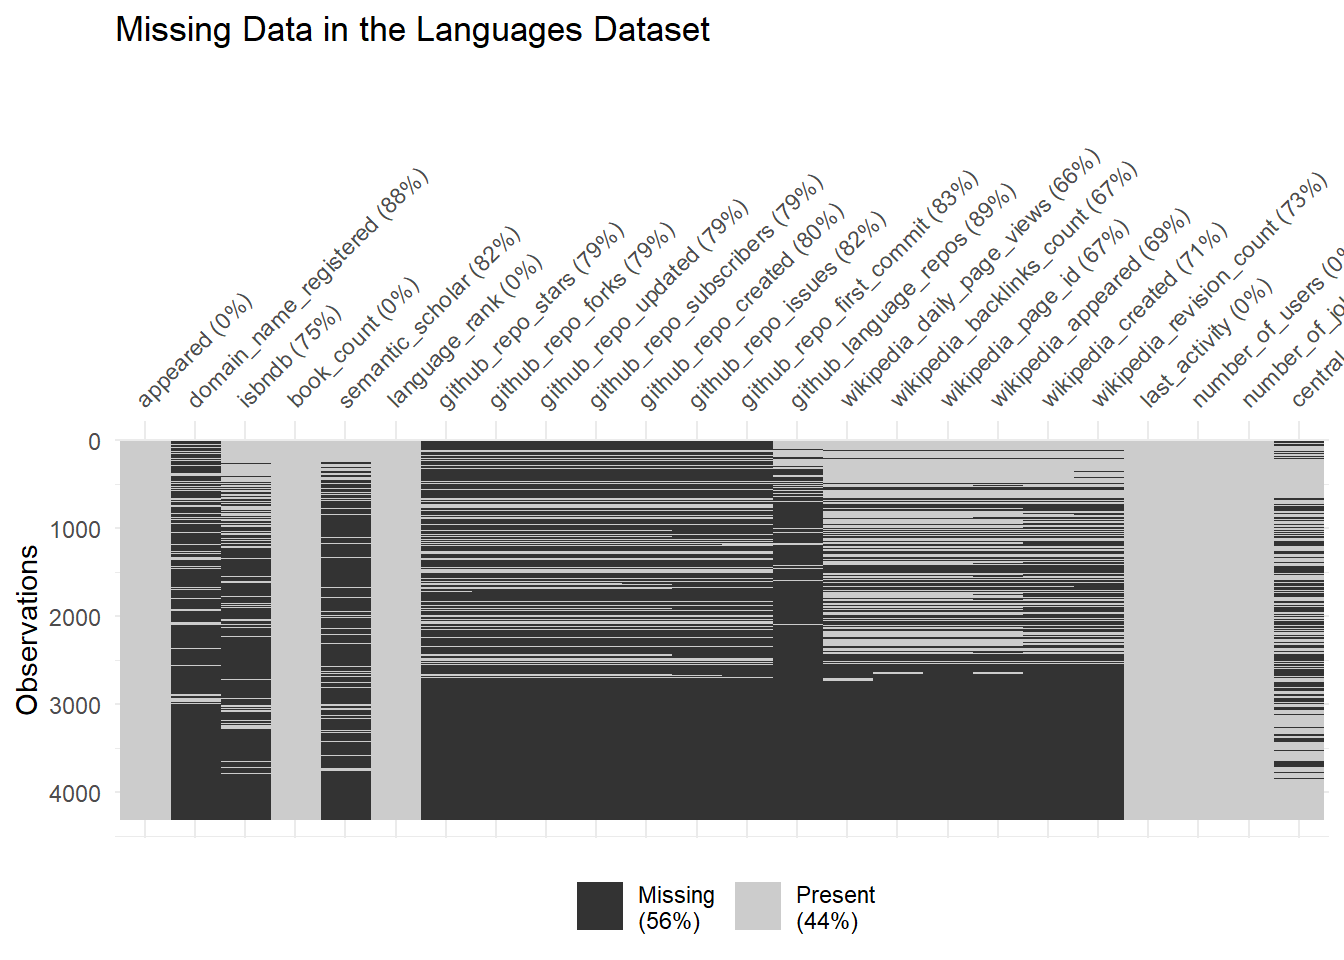
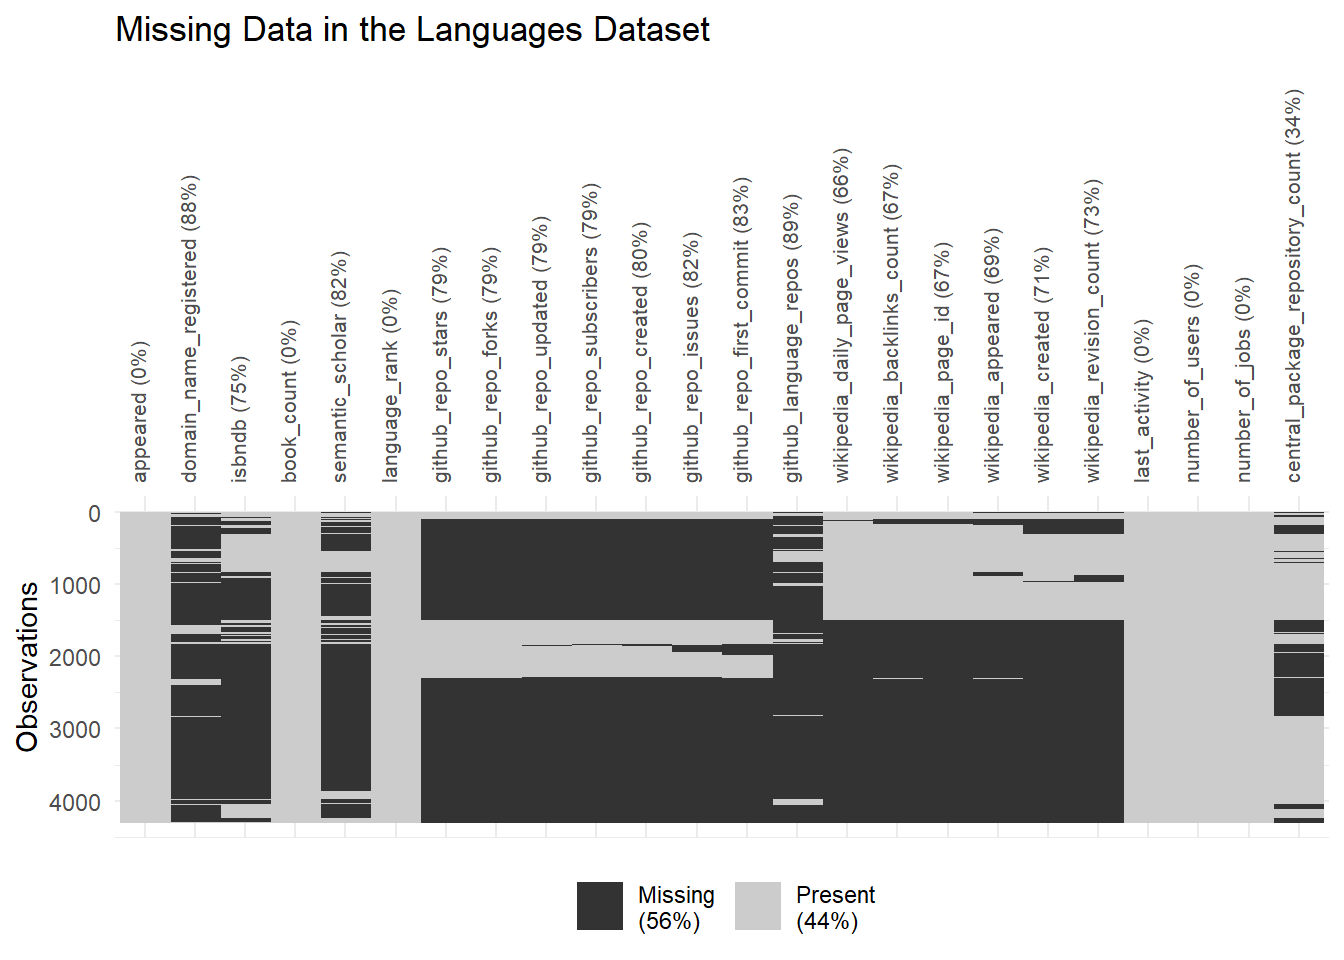
missingness figures

diff --git a/docs/posts/2023-03-22-tidytuesday-figure-polishing/index.html b/docs/posts/2023-03-22-tidytuesday-figure-polishing/index.html
@@ -903,12 +903,12 @@ cookieconsent.run({
 <span id="cb4-8"><a href="#cb4-8" aria-hidden="true" tabindex="-1"></a><span class="fu">tab_header</span>(<span class="at">title =</span> <span class="st">"Summary of Numerical Variables in Languages"</span>) </span></code><button title="Copy to Clipboard" class="code-copy-button"><i class="bi"></i></button></pre></div>
 <div class="cell-output-display column-page">
 
-<div id="goskwwycks" style="padding-left:0px;padding-right:0px;padding-top:10px;padding-bottom:10px;overflow-x:auto;overflow-y:auto;width:auto;height:auto;">
+<div id="tstsrltqzt" style="padding-left:0px;padding-right:0px;padding-top:10px;padding-bottom:10px;overflow-x:auto;overflow-y:auto;width:auto;height:auto;">
 <style>html {
   font-family: -apple-system, BlinkMacSystemFont, 'Segoe UI', Roboto, Oxygen, Ubuntu, Cantarell, 'Helvetica Neue', 'Fira Sans', 'Droid Sans', Arial, sans-serif;
 }
 
-:where(#goskwwycks) .gt_table {
+:where(#tstsrltqzt) .gt_table {
   display: table;
   border-collapse: collapse;
   margin-left: auto;
@@ -933,7 +933,7 @@ cookieconsent.run({
   border-left-color: #D3D3D3;
 }
 
-:where(#goskwwycks) .gt_heading {
+:where(#tstsrltqzt) .gt_heading {
   background-color: #FFFFFF;
   text-align: center;
   border-bottom-color: #FFFFFF;
@@ -945,12 +945,12 @@ cookieconsent.run({
   border-right-color: #D3D3D3;
 }
 
-:where(#goskwwycks) .gt_caption {
+:where(#tstsrltqzt) .gt_caption {
   padding-top: 4px;
   padding-bottom: 4px;
 }
 
-:where(#goskwwycks) .gt_title {
+:where(#tstsrltqzt) .gt_title {
   color: #333333;
   font-size: 125%;
   font-weight: initial;
@@ -962,7 +962,7 @@ cookieconsent.run({
   border-bottom-width: 0;
 }
 
-:where(#goskwwycks) .gt_subtitle {
+:where(#tstsrltqzt) .gt_subtitle {
   color: #333333;
   font-size: 85%;
   font-weight: initial;
@@ -974,13 +974,13 @@ cookieconsent.run({
   border-top-width: 0;
 }
 
-:where(#goskwwycks) .gt_bottom_border {
+:where(#tstsrltqzt) .gt_bottom_border {
   border-bottom-style: solid;
   border-bottom-width: 2px;
   border-bottom-color: #D3D3D3;
 }
 
-:where(#goskwwycks) .gt_col_headings {
+:where(#tstsrltqzt) .gt_col_headings {
   border-top-style: solid;
   border-top-width: 2px;
   border-top-color: #D3D3D3;
@@ -995,7 +995,7 @@ cookieconsent.run({
   border-right-color: #D3D3D3;
 }
 
-:where(#goskwwycks) .gt_col_heading {
+:where(#tstsrltqzt) .gt_col_heading {
   color: #333333;
   background-color: #FFFFFF;
   font-size: 100%;
@@ -1015,7 +1015,7 @@ cookieconsent.run({
   overflow-x: hidden;
 }
 
-:where(#goskwwycks) .gt_column_spanner_outer {
+:where(#tstsrltqzt) .gt_column_spanner_outer {
   color: #333333;
   background-color: #FFFFFF;
   font-size: 100%;
@@ -1027,15 +1027,15 @@ cookieconsent.run({
   padding-right: 4px;
 }
 
-:where(#goskwwycks) .gt_column_spanner_outer:first-child {
+:where(#tstsrltqzt) .gt_column_spanner_outer:first-child {
   padding-left: 0;
 }
 
-:where(#goskwwycks) .gt_column_spanner_outer:last-child {
+:where(#tstsrltqzt) .gt_column_spanner_outer:last-child {
   padding-right: 0;
 }
 
-:where(#goskwwycks) .gt_column_spanner {
+:where(#tstsrltqzt) .gt_column_spanner {
   border-bottom-style: solid;
   border-bottom-width: 2px;
   border-bottom-color: #D3D3D3;
@@ -1047,7 +1047,7 @@ cookieconsent.run({
   width: 100%;
 }
 
-:where(#goskwwycks) .gt_group_heading {
+:where(#tstsrltqzt) .gt_group_heading {
   padding-top: 8px;
   padding-bottom: 8px;
   padding-left: 5px;
@@ -1073,7 +1073,7 @@ cookieconsent.run({
   text-align: left;
 }
 
-:where(#goskwwycks) .gt_empty_group_heading {
+:where(#tstsrltqzt) .gt_empty_group_heading {
   padding: 0.5px;
   color: #333333;
   background-color: #FFFFFF;
@@ -1088,15 +1088,15 @@ cookieconsent.run({
   vertical-align: middle;
 }
 
-:where(#goskwwycks) .gt_from_md > :first-child {
+:where(#tstsrltqzt) .gt_from_md > :first-child {
   margin-top: 0;
 }
 
-:where(#goskwwycks) .gt_from_md > :last-child {
+:where(#tstsrltqzt) .gt_from_md > :last-child {
   margin-bottom: 0;
 }
 
-:where(#goskwwycks) .gt_row {
+:where(#tstsrltqzt) .gt_row {
   padding-top: 8px;
   padding-bottom: 8px;
   padding-left: 5px;
@@ -1115,7 +1115,7 @@ cookieconsent.run({
   overflow-x: hidden;
 }
 
-:where(#goskwwycks) .gt_stub {
+:where(#tstsrltqzt) .gt_stub {
   color: #333333;
   background-color: #FFFFFF;
   font-size: 100%;
@@ -1128,7 +1128,7 @@ cookieconsent.run({
   padding-right: 5px;
 }
 
-:where(#goskwwycks) .gt_stub_row_group {
+:where(#tstsrltqzt) .gt_stub_row_group {
   color: #333333;
   background-color: #FFFFFF;
   font-size: 100%;
@@ -1142,11 +1142,11 @@ cookieconsent.run({
   vertical-align: top;
 }
 
-:where(#goskwwycks) .gt_row_group_first td {
+:where(#tstsrltqzt) .gt_row_group_first td {
   border-top-width: 2px;
 }
 
-:where(#goskwwycks) .gt_summary_row {
+:where(#tstsrltqzt) .gt_summary_row {
   color: #333333;
   background-color: #FFFFFF;
   text-transform: inherit;
@@ -1156,16 +1156,16 @@ cookieconsent.run({
   padding-right: 5px;
 }
 
-:where(#goskwwycks) .gt_first_summary_row {
+:where(#tstsrltqzt) .gt_first_summary_row {
   border-top-style: solid;
   border-top-color: #D3D3D3;
 }
 
-:where(#goskwwycks) .gt_first_summary_row.thick {
+:where(#tstsrltqzt) .gt_first_summary_row.thick {
   border-top-width: 2px;
 }
 
-:where(#goskwwycks) .gt_last_summary_row {
+:where(#tstsrltqzt) .gt_last_summary_row {
   padding-top: 8px;
   padding-bottom: 8px;
   padding-left: 5px;
@@ -1175,7 +1175,7 @@ cookieconsent.run({
   border-bottom-color: #D3D3D3;
 }
 
-:where(#goskwwycks) .gt_grand_summary_row {
+:where(#tstsrltqzt) .gt_grand_summary_row {
   color: #333333;
   background-color: #FFFFFF;
   text-transform: inherit;
@@ -1185,7 +1185,7 @@ cookieconsent.run({
   padding-right: 5px;
 }
 
-:where(#goskwwycks) .gt_first_grand_summary_row {
+:where(#tstsrltqzt) .gt_first_grand_summary_row {
   padding-top: 8px;
   padding-bottom: 8px;
   padding-left: 5px;
@@ -1195,11 +1195,11 @@ cookieconsent.run({
   border-top-color: #D3D3D3;
 }
 
-:where(#goskwwycks) .gt_striped {
+:where(#tstsrltqzt) .gt_striped {
   background-color: rgba(128, 128, 128, 0.05);
 }
 
-:where(#goskwwycks) .gt_table_body {
+:where(#tstsrltqzt) .gt_table_body {
   border-top-style: solid;
   border-top-width: 2px;
   border-top-color: #D3D3D3;
@@ -1208,7 +1208,7 @@ cookieconsent.run({
   border-bottom-color: #D3D3D3;
 }
 
-:where(#goskwwycks) .gt_footnotes {
+:where(#tstsrltqzt) .gt_footnotes {
   color: #333333;
   background-color: #FFFFFF;
   border-bottom-style: none;
@@ -1222,7 +1222,7 @@ cookieconsent.run({
   border-right-color: #D3D3D3;
 }
 
-:where(#goskwwycks) .gt_footnote {
+:where(#tstsrltqzt) .gt_footnote {
   margin: 0px;
   font-size: 90%;
   padding-left: 4px;
@@ -1231,7 +1231,7 @@ cookieconsent.run({
   padding-right: 5px;
 }
 
-:where(#goskwwycks) .gt_sourcenotes {
+:where(#tstsrltqzt) .gt_sourcenotes {
   color: #333333;
   background-color: #FFFFFF;
   border-bottom-style: none;
@@ -1245,7 +1245,7 @@ cookieconsent.run({
   border-right-color: #D3D3D3;
 }
 
-:where(#goskwwycks) .gt_sourcenote {
+:where(#tstsrltqzt) .gt_sourcenote {
   font-size: 90%;
   padding-top: 4px;
   padding-bottom: 4px;
@@ -1253,64 +1253,64 @@ cookieconsent.run({
   padding-right: 5px;
 }
 
-:where(#goskwwycks) .gt_left {
+:where(#tstsrltqzt) .gt_left {
   text-align: left;
 }
 
-:where(#goskwwycks) .gt_center {
+:where(#tstsrltqzt) .gt_center {
   text-align: center;
 }
 
-:where(#goskwwycks) .gt_right {
+:where(#tstsrltqzt) .gt_right {
   text-align: right;
   font-variant-numeric: tabular-nums;
 }
 
-:where(#goskwwycks) .gt_font_normal {
+:where(#tstsrltqzt) .gt_font_normal {
   font-weight: normal;
 }
 
-:where(#goskwwycks) .gt_font_bold {
+:where(#tstsrltqzt) .gt_font_bold {
   font-weight: bold;
 }
 
-:where(#goskwwycks) .gt_font_italic {
+:where(#tstsrltqzt) .gt_font_italic {
   font-style: italic;
 }
 
-:where(#goskwwycks) .gt_super {
+:where(#tstsrltqzt) .gt_super {
   font-size: 65%;
 }
 
-:where(#goskwwycks) .gt_footnote_marks {
+:where(#tstsrltqzt) .gt_footnote_marks {
   font-style: italic;
   font-weight: normal;
   font-size: 75%;
   vertical-align: 0.4em;
 }
 
-:where(#goskwwycks) .gt_asterisk {
+:where(#tstsrltqzt) .gt_asterisk {
   font-size: 100%;
   vertical-align: 0;
 }
 
-:where(#goskwwycks) .gt_indent_1 {
+:where(#tstsrltqzt) .gt_indent_1 {
   text-indent: 5px;
 }
 
-:where(#goskwwycks) .gt_indent_2 {
+:where(#tstsrltqzt) .gt_indent_2 {
   text-indent: 10px;
 }
 
-:where(#goskwwycks) .gt_indent_3 {
+:where(#tstsrltqzt) .gt_indent_3 {
   text-indent: 15px;
 }
 
-:where(#goskwwycks) .gt_indent_4 {
+:where(#tstsrltqzt) .gt_indent_4 {
   text-indent: 20px;
 }
 
-:where(#goskwwycks) .gt_indent_5 {
+:where(#tstsrltqzt) .gt_indent_5 {
   text-indent: 25px;
 }
 </style>
@@ -1558,10 +1558,14 @@ cookieconsent.run({
 </div>
 </div>
 </div>
-<p>the visdat package makes nice figures.</p>
+<p>The visdat package makes ggplot compatible missingness plots. The cluster = TRUE option groups varaibles that share missingness. Here we see that usually if some of the github data is missing, then all of the GitHub data is missing. The percent missing is listed for each variable and the overall missingness of the dataset is shown in the legend.</p>
+<p>Note vis_miss doesn’t work on very large datasets. The documentations suggests keeping the number of records below 1,000. There is a more extensive package for exploratory visualizations called naniar which could also be used.</p>
 <div class="cell page-columns page-full">
-<div class="sourceCode cell-code" id="cb5"><pre class="sourceCode r code-with-copy"><code class="sourceCode r"><span id="cb5-1"><a href="#cb5-1" aria-hidden="true" tabindex="-1"></a><span class="fu">vis_miss</span>(languages_numeric) <span class="sc">+</span></span>
-<span id="cb5-2"><a href="#cb5-2" aria-hidden="true" tabindex="-1"></a><span class="fu">ggtitle</span>(<span class="st">"Missing Data in the Languages Dataset"</span>) </span></code><button title="Copy to Clipboard" class="code-copy-button"><i class="bi"></i></button></pre></div>
+<div class="sourceCode cell-code" id="cb5"><pre class="sourceCode r code-with-copy"><code class="sourceCode r"><span id="cb5-1"><a href="#cb5-1" aria-hidden="true" tabindex="-1"></a>languages_numeric <span class="sc">%&gt;%</span></span>
+<span id="cb5-2"><a href="#cb5-2" aria-hidden="true" tabindex="-1"></a><span class="fu">vis_miss</span>(<span class="at">cluster =</span> <span class="cn">TRUE</span>) <span class="sc">+</span></span>
+<span id="cb5-3"><a href="#cb5-3" aria-hidden="true" tabindex="-1"></a><span class="fu">ggtitle</span>(<span class="st">"Missing Data in the Languages Dataset"</span>) <span class="sc">+</span></span>
+<span id="cb5-4"><a href="#cb5-4" aria-hidden="true" tabindex="-1"></a>  <span class="co">#theme_classic() +</span></span>
+<span id="cb5-5"><a href="#cb5-5" aria-hidden="true" tabindex="-1"></a>  <span class="fu">theme</span>(<span class="at">axis.text.x =</span> <span class="fu">element_text</span>(<span class="at">size =</span> <span class="dv">8</span>, <span class="at">angle =</span> <span class="dv">90</span>))</span></code><button title="Copy to Clipboard" class="code-copy-button"><i class="bi"></i></button></pre></div>
 <div class="cell-output-display column-page">
 <p><img src="index_files/figure-html/unnamed-chunk-5-1.png" class="img-fluid" width="672"></p>
 </div>
